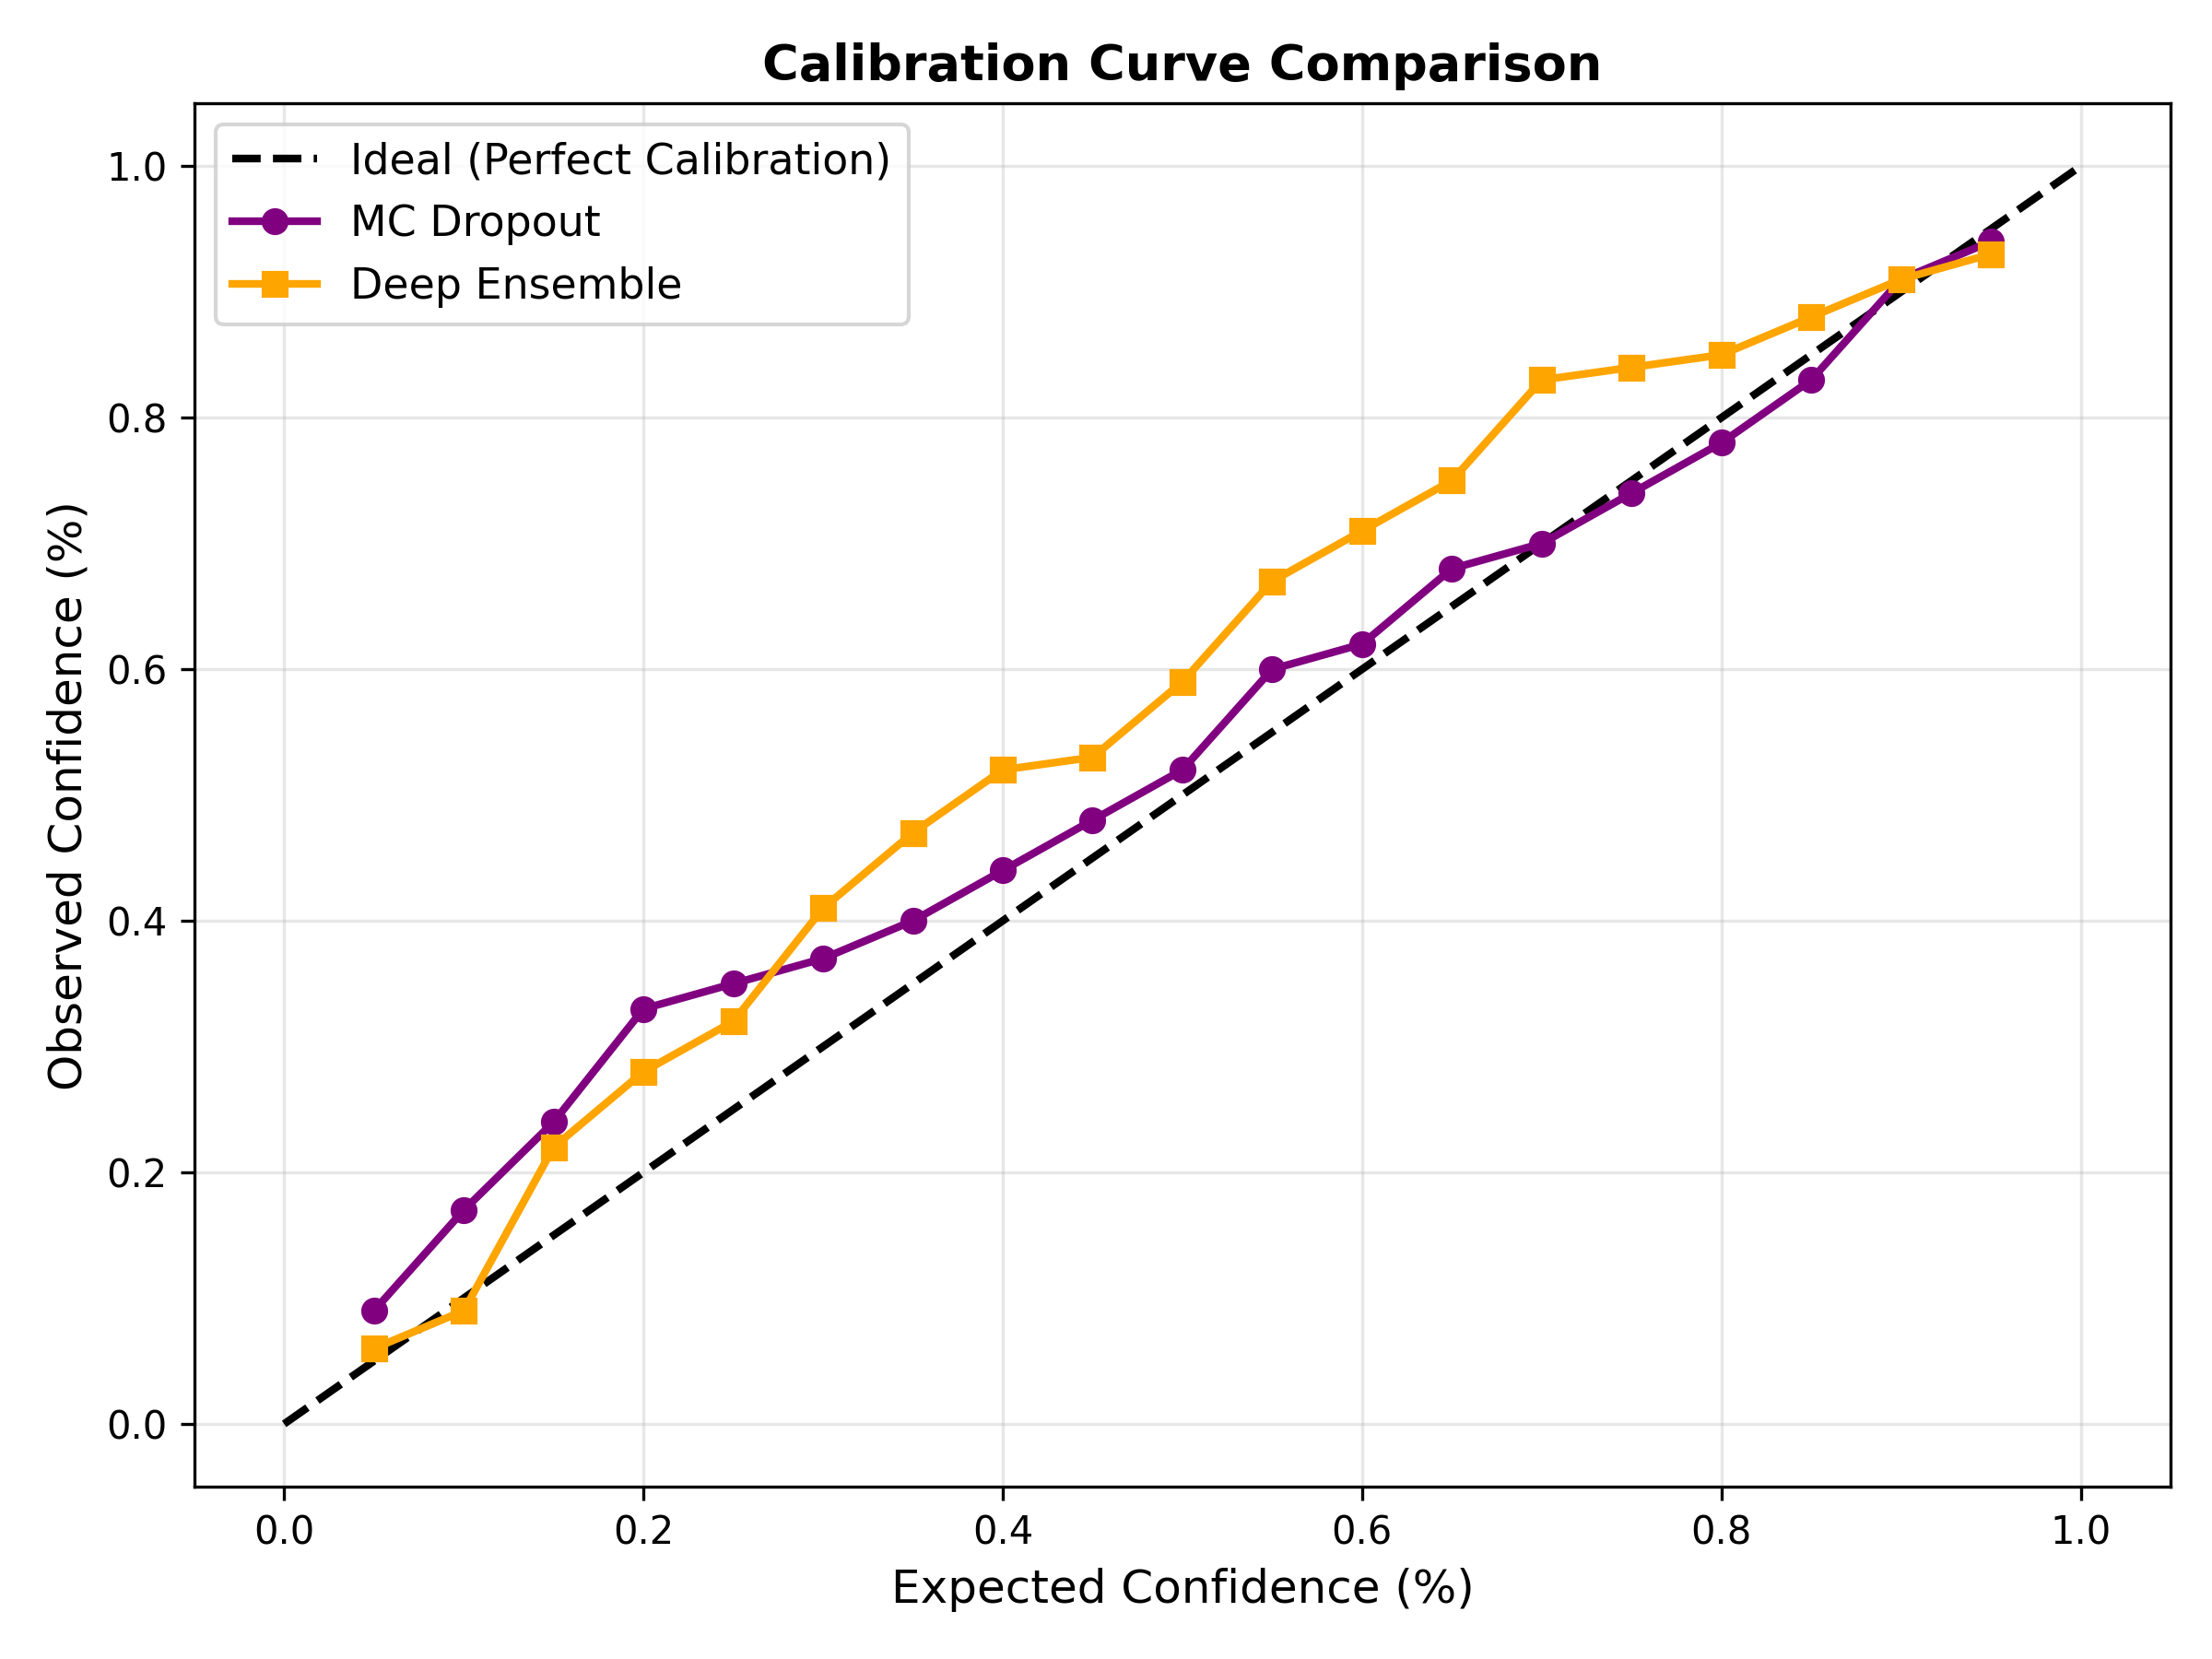
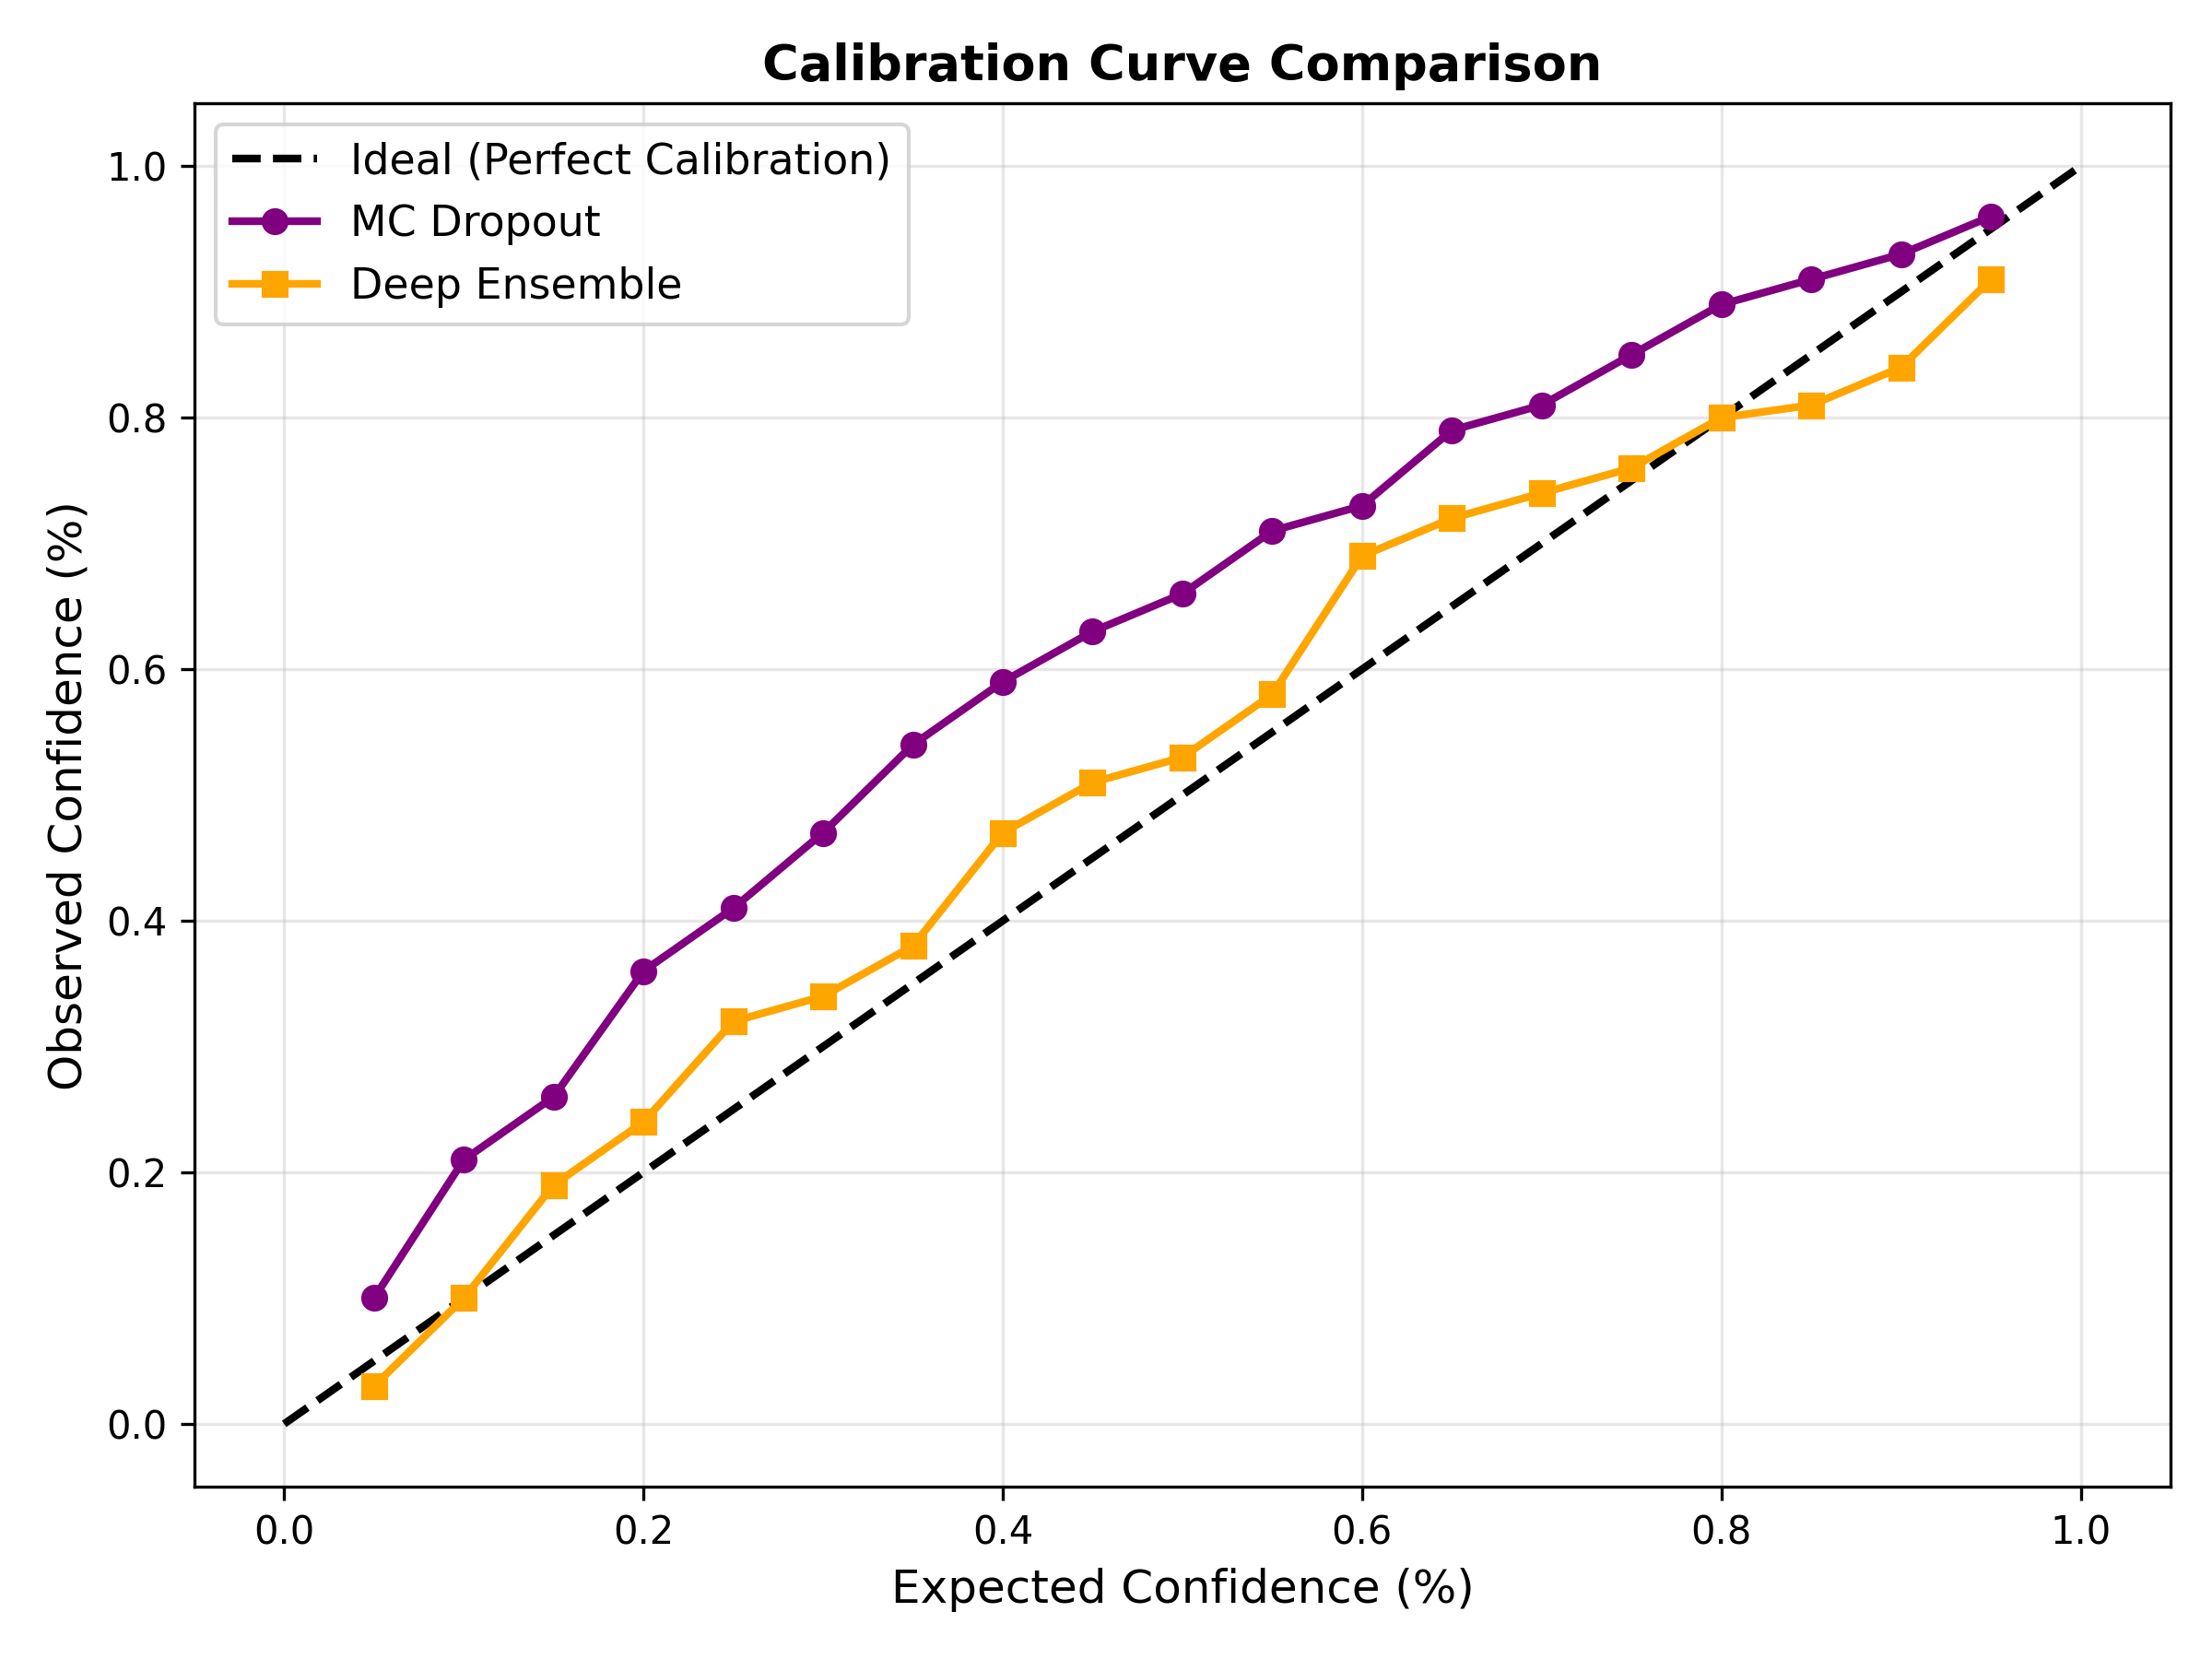
voorlopig even laatste voor part3 tot opschonen

Changed region(s): [[0.1562, 0.1244, 0.9062, 0.84], [0.4688, 0.3733, 0.5, 0.4044]]

diff --git a/src/part3_uq_lstm.py b/src/part3_uq_lstm.py
@@ -20,8 +20,9 @@ from import_data import load_data
 OUTPUT_DIR = "Output/part3copy"
 RUL_CAP = 125
 MC_DROPOUT_PASSES = 50
-FINAL_EPOCHS = 100
-N_DE_MODELS = 6  # Number of models in the Deep Ensemble
+FINAL_EPOCHS = 150
+EPOCHS_DE = 150 
+N_DE_MODELS = 10  # Number of models in the Deep Ensemble
 
 # The winning configuration from Part 2
 BEST_CFG = {'seq_len': 50, 'hidden_size': 64, 'num_layers': 1, 'dropout': 0.2}
@@ -98,7 +99,7 @@ def train_lstm_ensemble(X_tr, y_tr, X_val, y_val, best_cfg, num_features, n_mode
                              dropout=best_cfg['dropout']).to(device)
                              
         # Using train() function from Part 2
-        model, _, _ = train(model, tr_loader, vl_loader, n_epochs=FINAL_EPOCHS, verbose=False)
+        model, _, _ = train(model, tr_loader, vl_loader, n_epochs=EPOCHS_DE, verbose=True)
         ensemble.append(model)
         
     return ensemble
@@ -130,10 +131,6 @@ def ensemble_lstm_predict(ensemble, X_test_windows, batch_size=64):
     y_var = np.var(all_model_preds, axis=0)
     
     return y_mean, y_var
-
-
-
-
 
 
 # ============================================================================
@@ -189,8 +186,8 @@ def plot_calibration_curves(mc_conf_levels, mc_obs_conf, de_conf_levels, de_obs_
     output_path = os.path.join(OUTPUT_DIR, 'uq_calibration_curves.png')
     plt.savefig(output_path, dpi=300)
     print(f"Calibration plot saved successfully to: {output_path}")
-    
-    
+
+  
 def plot_uq_predictions(y_test, mc_mean, mc_std, de_mean, de_std):
     print("\nGenerating Prediction comparison plots...")
     fig, axes = plt.subplots(1, 2, figsize=(16, 6))
@@ -233,9 +230,71 @@ def plot_uq_predictions(y_test, mc_mean, mc_std, de_mean, de_std):
     print(f"Predictions plot saved successfully to: {output_path}")
     
 
-
-
-
+def plot_temporal_trajectory(mc_model, de_ensemble, df_val_raw, X_val, y_val, seq_len, mc_aleatoric_var, de_aleatoric_var):
+    """
+    Plots the full run-to-failure trajectory for a single validation engine 
+    to demonstrate Prognostic Horizon and shrinking variance over time.
+    """
+    print("\nGenerating Temporal Trajectory plot for a single validation engine...")
+    
+    # 1. Isolate the first engine in the validation set
+    engine_id = df_val_raw['engine'].unique()[0]
+    
+    # Calculate exactly how many sliding windows belong to this specific engine
+    num_cycles = len(df_val_raw[df_val_raw['engine'] == engine_id])
+    num_windows = num_cycles - seq_len + 1
+    
+    # Slice the already preprocessed validation data
+    X_eng = X_val[:num_windows]
+    y_eng = y_val[:num_windows]
+    
+    # The x-axis represents the actual flight cycles (starting after the first window)
+    cycles = np.arange(seq_len, num_cycles + 1)
+    
+    # 2. Get MC Dropout Predictions
+    mc_mean, mc_var = mc_dropout_lstm_predict(mc_model, X_eng, num_passes=MC_DROPOUT_PASSES)
+    mc_std = np.sqrt(mc_var + mc_aleatoric_var)
+    
+    # 3. Get Deep Ensemble Predictions
+    de_mean, de_var = ensemble_lstm_predict(de_ensemble, X_eng)
+    de_std = np.sqrt(de_var + de_aleatoric_var)
+    
+    # 4. Plotting
+    fig, axes = plt.subplots(1, 2, figsize=(16, 6))
+    
+    # Plot A: MC Dropout Temporal
+    ax1 = axes[0]
+    ax1.plot(cycles, y_eng, 'k-', linewidth=2.5, label='True RUL')
+    ax1.plot(cycles, mc_mean, color='purple', linewidth=2, label='MC Mean Prediction')
+    # Using 1.96 * std for a 95% Confidence Interval to clearly show the shrinking cone
+    ax1.fill_between(cycles, 
+                     mc_mean - (1.96 * mc_std), 
+                     mc_mean + (1.96 * mc_std), 
+                     color='purple', alpha=0.3, label='95% Confidence Interval')
+    ax1.set_xlabel('Flight Cycle', fontsize=12)
+    ax1.set_ylabel('Remaining Useful Life (cycles)', fontsize=12)
+    ax1.set_title(f'MC Dropout: Temporal Trajectory (Engine {engine_id})', fontsize=13, fontweight='bold')
+    ax1.legend(loc='upper right', fontsize=10)
+    ax1.grid(alpha=0.3)
+    
+    # Plot B: Deep Ensemble Temporal
+    ax2 = axes[1]
+    ax2.plot(cycles, y_eng, 'k-', linewidth=2.5, label='True RUL')
+    ax2.plot(cycles, de_mean, color='orange', linewidth=2, label='Ensemble Mean Prediction')
+    ax2.fill_between(cycles, 
+                     de_mean - (1.96 * de_std), 
+                     de_mean + (1.96 * de_std), 
+                     color='orange', alpha=0.3, label='95% Confidence Interval')
+    ax2.set_xlabel('Flight Cycle', fontsize=12)
+    ax2.set_ylabel('Remaining Useful Life (cycles)', fontsize=12)
+    ax2.set_title(f'Deep Ensemble: Temporal Trajectory (Engine {engine_id})', fontsize=13, fontweight='bold')
+    ax2.legend(loc='upper right', fontsize=10)
+    ax2.grid(alpha=0.3)
+    
+    plt.tight_layout()
+    output_path = os.path.join(OUTPUT_DIR, 'uq_temporal_trajectory.png')
+    plt.savefig(output_path, dpi=300)
+    print(f"Temporal trajectory plot saved successfully to: {output_path}")
 
 #==========================================
 # Main 
@@ -318,6 +377,7 @@ def main():
     # Plotting
     plot_calibration_curves(mc_conf_levels, mc_obs_conf, de_conf_levels, de_obs_conf)
     plot_uq_predictions(rul_truth, mc_mean, mc_std, de_mean, de_std)
+    plot_temporal_trajectory(mc_model, de_ensemble, df_val_raw, X_val, y_val, BEST_CFG['seq_len'], mc_aleatoric_var, de_aleatoric_var)
 
 if __name__ == "__main__":
     main()